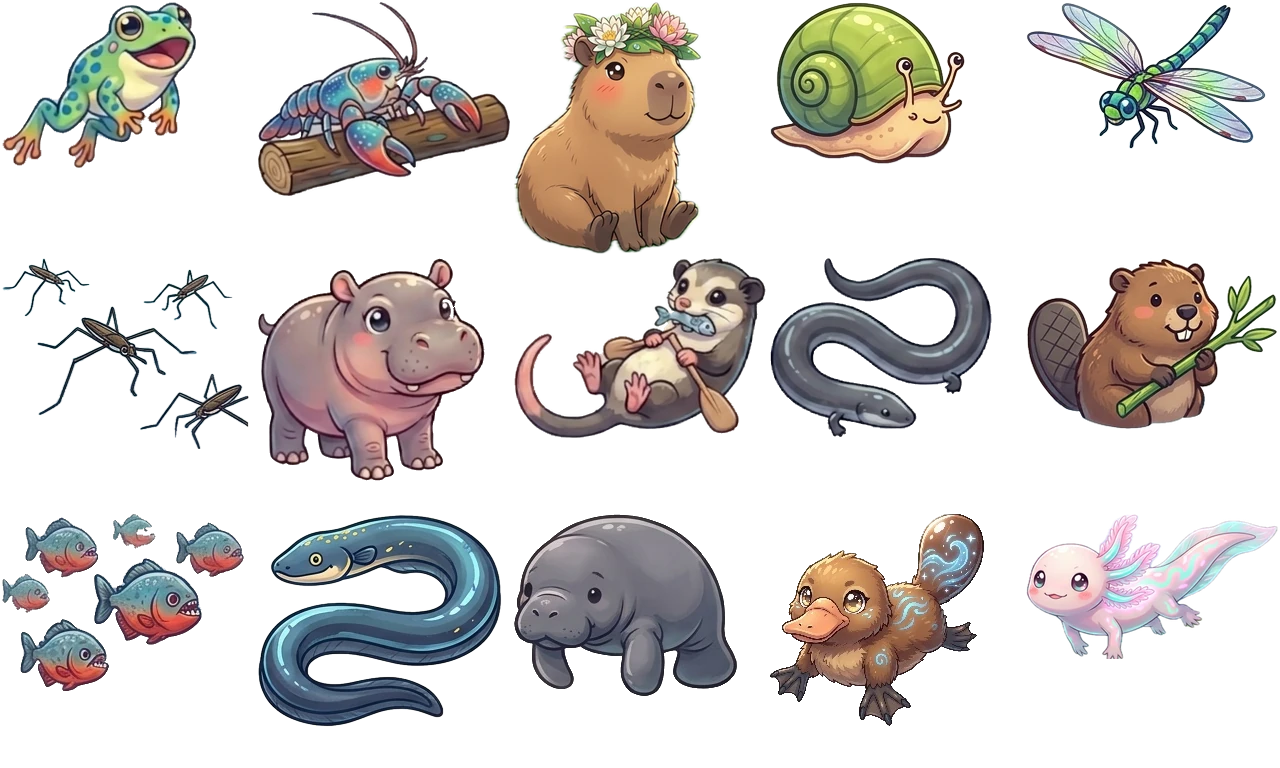
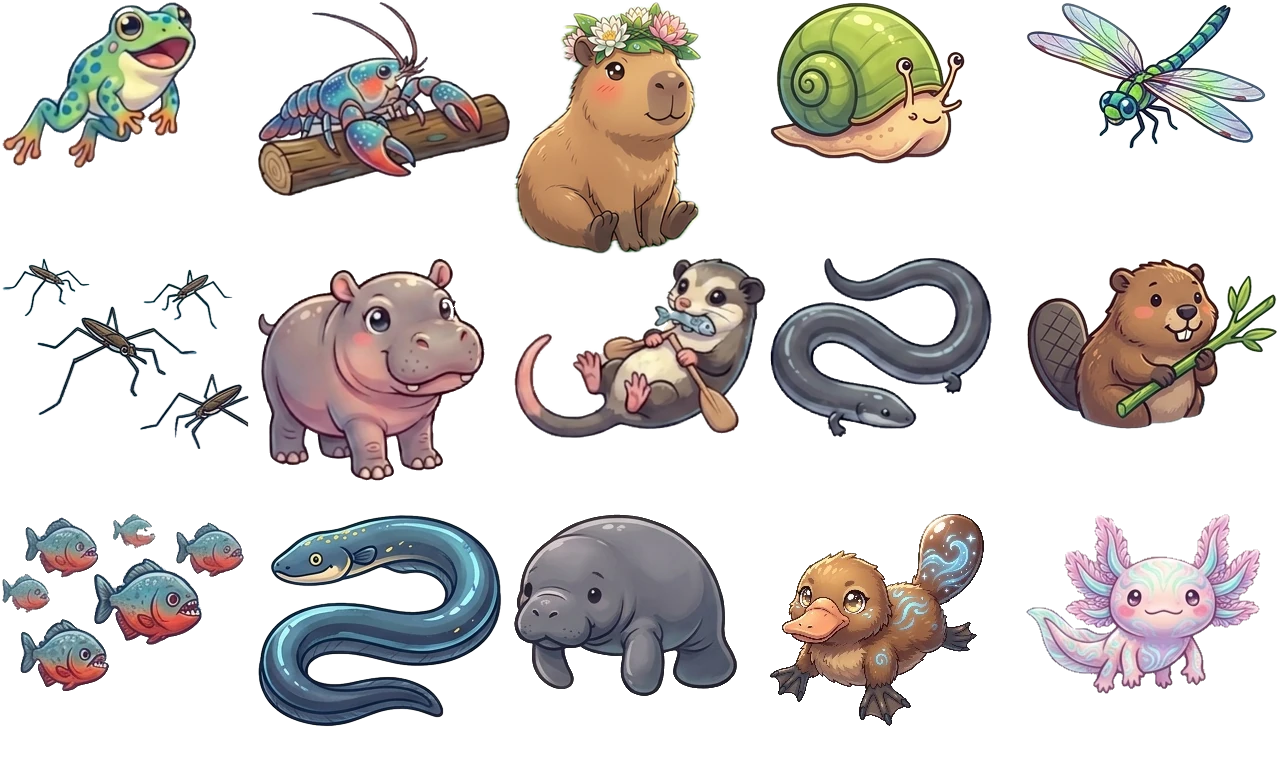
Tidesong: Lumifrill redrawn from the remake art

Changed region(s): [[0.7812, 0.6562, 1.0, 0.9062]]

diff --git a/arcade/js/tidesong/creatureAtlas.js b/arcade/js/tidesong/creatureAtlas.js
@@ -3,8 +3,8 @@
 // creatureremakes/ by creature-cutter/remakes): each creature's rectangle
 // [x, y, w, h] in img/tidesong/creatures/<region>.webp, in the same order as
 // the region's 15 creatures in creatures.js. Do not edit by hand.
-export const creatureAtlas = {"prismreef":[[2,2,252,205],[258,2,252,180],[514,2,243,209],[770,2,200,129],[1026,2,237,195],[2,258,240,203],[258,258,252,227],[514,258,252,220],[770,258,252,183],[1026,258,230,210],[2,514,252,156],[258,514,234,222],[514,514,250,196],[770,514,252,194],[1026,514,252,163]],"verdant":[[2,2,252,135],[258,2,216,219],[514,2,213,177],[770,2,217,170],[1026,2,175,108],[2,258,235,201],[258,258,252,221],[514,258,241,196],[770,258,252,207],[1026,258,226,193],[2,514,252,210],[258,514,251,200],[514,514,250,156],[770,514,252,159],[1026,514,252,146]],"fluvius":[[2,2,194,166],[258,2,252,194],[514,2,189,252],[770,2,195,162],[1026,2,240,147],[2,258,247,191],[258,258,227,223],[514,258,252,180],[770,258,222,179],[1026,258,252,171],[2,514,242,177],[258,514,244,213],[514,514,223,182],[770,514,214,212],[1026,514,252,145]],"pelagia":[[2,2,252,168],[258,2,252,170],[514,2,211,252],[770,2,252,235],[1026,2,252,111],[2,258,224,252],[258,258,252,137],[514,258,252,151],[770,258,252,132],[1026,258,252,172],[2,514,252,169],[258,514,252,202],[514,514,252,186],[770,514,252,167],[1026,514,252,170]],"brinewallow":[[2,2,213,197],[258,2,180,170],[514,2,252,190],[770,2,233,212],[1026,2,203,127],[2,258,218,212],[258,258,193,225],[514,258,118,204],[770,258,252,191],[1026,258,216,183],[2,514,202,227],[258,514,179,157],[514,514,252,155],[770,514,207,185],[1026,514,241,161]],"frostveil":[[2,2,227,182],[258,2,163,185],[514,2,209,144],[770,2,236,153],[1026,2,247,226],[2,258,170,182],[258,258,241,165],[514,258,221,182],[770,258,209,161],[1026,258,172,179],[2,514,181,187],[258,514,172,176],[514,514,221,147],[770,514,185,217],[1026,514,241,168]],"gloomveil":[[2,2,233,188],[258,2,227,139],[514,2,198,191],[770,2,171,135],[1026,2,181,177],[2,258,223,184],[258,258,224,183],[514,258,227,137],[770,258,167,130],[1026,258,215,156],[2,514,203,180],[258,514,228,203],[514,514,235,163],[770,514,206,197],[1026,514,216,198]],"cragspire":[[2,2,240,188],[258,2,220,158],[514,2,238,192],[770,2,224,217],[1026,2,225,187],[2,258,141,133],[258,258,237,148],[514,258,236,213],[770,258,217,144],[1026,258,252,184],[2,514,197,215],[258,514,252,205],[514,514,235,214],[770,514,220,215],[1026,514,228,187]],"abyssal":[[2,2,184,185],[258,2,231,190],[514,2,209,168],[770,2,167,157],[1026,2,188,174],[2,258,178,179],[258,258,223,188],[514,258,170,134],[770,258,190,187],[1026,258,212,162],[2,514,239,171],[258,514,214,190],[514,514,186,159],[770,514,228,195],[1026,514,155,172]],"fangshore":[[2,2,182,200],[258,2,252,167],[514,2,252,249],[770,2,252,235],[1026,2,252,200],[2,258,252,136],[258,258,252,212],[514,258,252,143],[770,258,252,250],[1026,258,252,156],[2,514,252,237],[258,514,252,187],[514,514,246,252],[770,514,252,155],[1026,514,252,217]]};
+export const creatureAtlas = {"prismreef":[[2,2,252,205],[258,2,252,180],[514,2,243,209],[770,2,200,129],[1026,2,237,195],[2,258,240,203],[258,258,252,227],[514,258,252,220],[770,258,252,183],[1026,258,230,210],[2,514,252,156],[258,514,234,222],[514,514,250,196],[770,514,252,194],[1026,514,252,163]],"verdant":[[2,2,252,135],[258,2,216,219],[514,2,213,177],[770,2,217,170],[1026,2,175,108],[2,258,235,201],[258,258,252,221],[514,258,241,196],[770,258,252,207],[1026,258,226,193],[2,514,252,210],[258,514,251,200],[514,514,250,156],[770,514,252,159],[1026,514,252,146]],"fluvius":[[2,2,194,166],[258,2,252,194],[514,2,189,252],[770,2,195,162],[1026,2,240,147],[2,258,247,191],[258,258,227,223],[514,258,252,180],[770,258,222,179],[1026,258,252,171],[2,514,242,177],[258,514,244,213],[514,514,223,182],[770,514,214,212],[1026,514,235,180]],"pelagia":[[2,2,252,168],[258,2,252,170],[514,2,211,252],[770,2,252,235],[1026,2,252,111],[2,258,224,252],[258,258,252,137],[514,258,252,151],[770,258,252,132],[1026,258,252,172],[2,514,252,169],[258,514,252,202],[514,514,252,186],[770,514,252,167],[1026,514,252,170]],"brinewallow":[[2,2,213,197],[258,2,180,170],[514,2,252,190],[770,2,233,212],[1026,2,203,127],[2,258,218,212],[258,258,193,225],[514,258,118,204],[770,258,252,191],[1026,258,216,183],[2,514,202,227],[258,514,179,157],[514,514,252,155],[770,514,207,185],[1026,514,241,161]],"frostveil":[[2,2,227,182],[258,2,163,185],[514,2,209,144],[770,2,236,153],[1026,2,247,226],[2,258,170,182],[258,258,241,165],[514,258,221,182],[770,258,209,161],[1026,258,172,179],[2,514,181,187],[258,514,172,176],[514,514,221,147],[770,514,185,217],[1026,514,241,168]],"gloomveil":[[2,2,233,188],[258,2,227,139],[514,2,198,191],[770,2,171,135],[1026,2,181,177],[2,258,223,184],[258,258,224,183],[514,258,227,137],[770,258,167,130],[1026,258,215,156],[2,514,203,180],[258,514,228,203],[514,514,235,163],[770,514,206,197],[1026,514,216,198]],"cragspire":[[2,2,240,188],[258,2,220,158],[514,2,238,192],[770,2,224,217],[1026,2,225,187],[2,258,141,133],[258,258,237,148],[514,258,236,213],[770,258,217,144],[1026,258,252,184],[2,514,197,215],[258,514,252,205],[514,514,235,214],[770,514,220,215],[1026,514,228,187]],"abyssal":[[2,2,184,185],[258,2,231,190],[514,2,209,168],[770,2,167,157],[1026,2,188,174],[2,258,178,179],[258,258,223,188],[514,258,170,134],[770,258,190,187],[1026,258,212,162],[2,514,239,171],[258,514,214,190],[514,514,186,159],[770,514,228,195],[1026,514,155,172]],"fangshore":[[2,2,182,200],[258,2,252,167],[514,2,252,249],[770,2,252,235],[1026,2,252,200],[2,258,252,136],[258,258,252,212],[514,258,252,143],[770,258,252,250],[1026,258,252,156],[2,514,252,237],[258,514,252,187],[514,514,246,252],[770,514,252,155],[1026,514,252,217]]};
 
 // A hash of each region picture, added to its address so browsers fetch
 // the new picture whenever it changes.
-export const creatureArtVersion = {"prismreef":"c906772ae3","verdant":"070a72cadb","fluvius":"4781425dd9","pelagia":"941ec72ac7","brinewallow":"b69db1bfab","frostveil":"8fc600987e","gloomveil":"12e54daefc","cragspire":"581d9bd57d","abyssal":"733a6e8694","fangshore":"a9b7f3933a"};
+export const creatureArtVersion = {"prismreef":"c906772ae3","verdant":"070a72cadb","fluvius":"e83ca8d6e2","pelagia":"941ec72ac7","brinewallow":"b69db1bfab","frostveil":"8fc600987e","gloomveil":"12e54daefc","cragspire":"581d9bd57d","abyssal":"733a6e8694","fangshore":"a9b7f3933a"};

diff --git a/arcade/js/tidesong/creatureFacing.js b/arcade/js/tidesong/creatureFacing.js
@@ -7,7 +7,7 @@ export const creatureFacing = {
   brinewallow: "FLLRRFFRFFRRRLR",
   cragspire: "FFFFRLRRFRRRLLR",
   fangshore: "RRLLRLLLLLRLRRL",
-  fluvius: "RRFRLFRRRRRLLLL",
+  fluvius: "RRFRLFRRRRRLLLR",
   frostveil: "FFLLRFRFLFFFLRL",
   gloomveil: "RLRRRFRLRFLLLFF",
   pelagia: "LLFFLLLRRLFRLLL",
